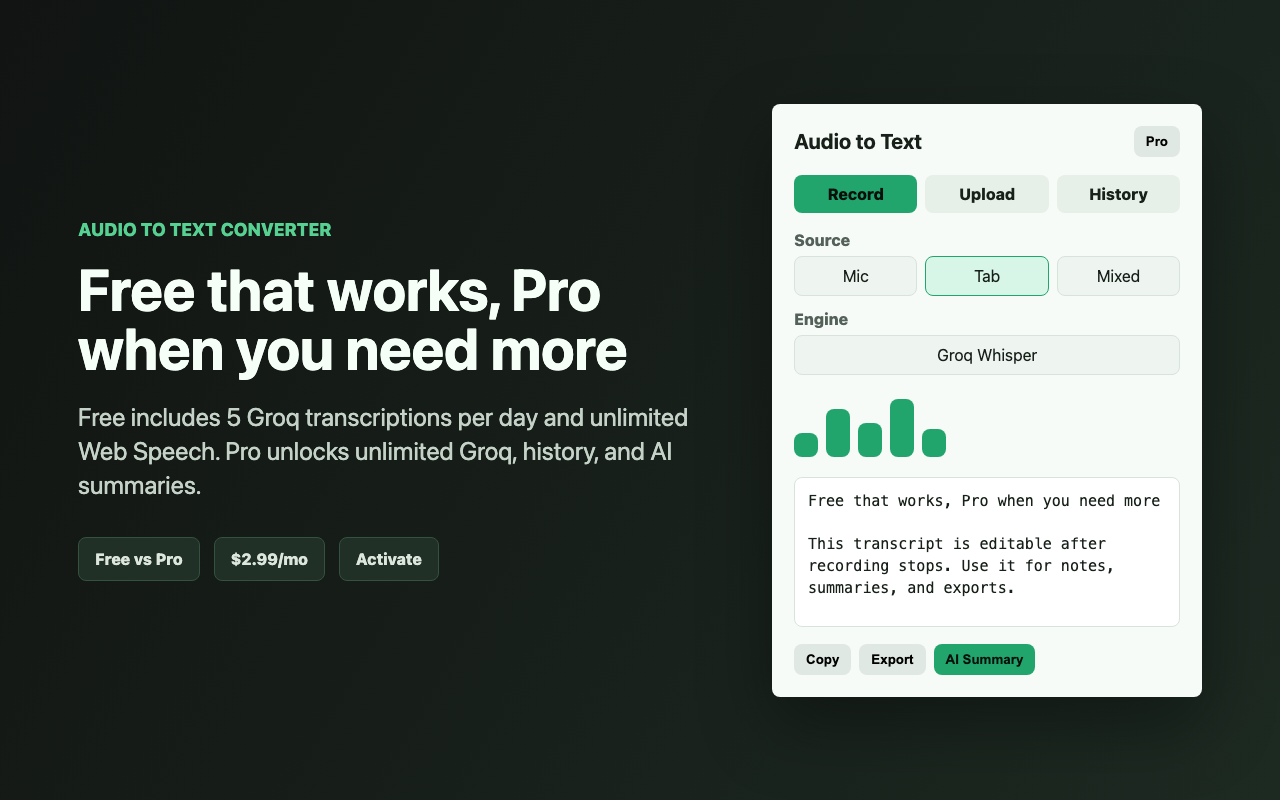
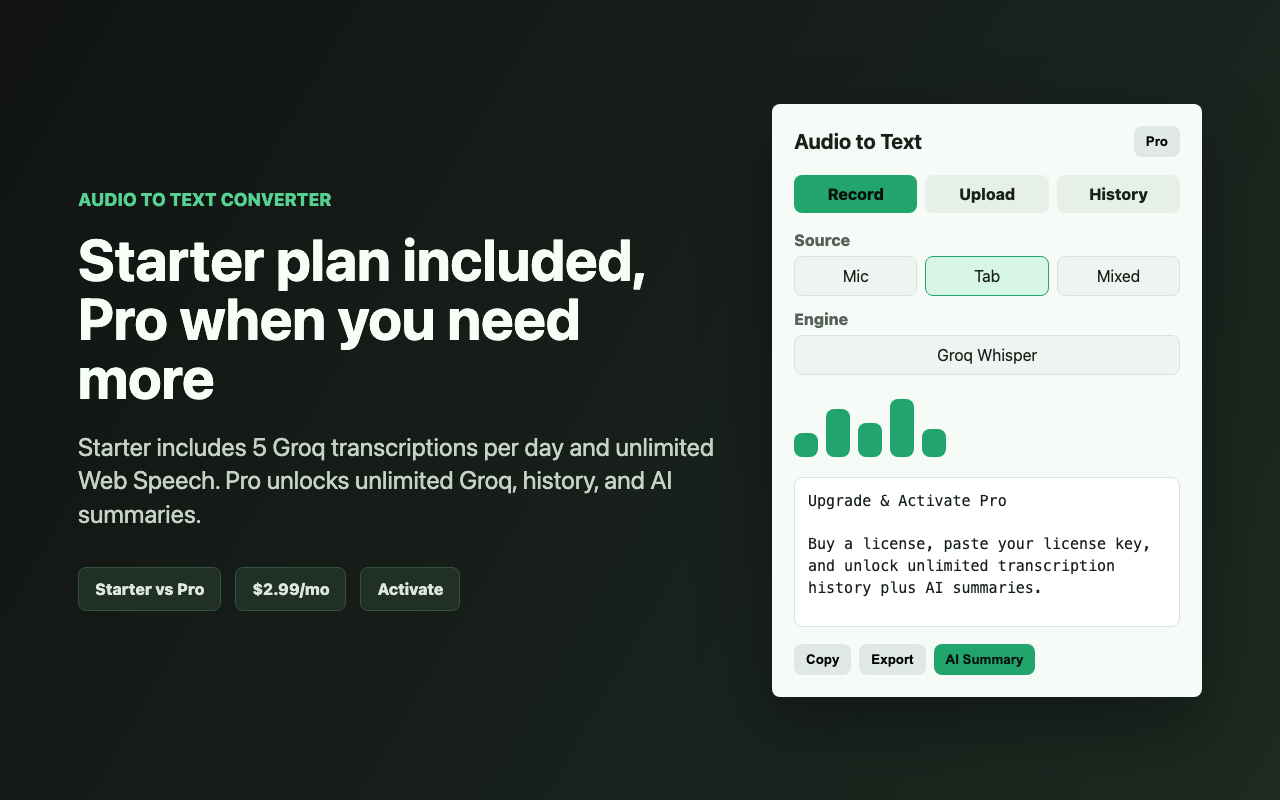
Polish audio to text store assets

diff --git a/audio-to-text/index.html b/audio-to-text/index.html
@@ -142,6 +142,6 @@
       </div>
     </div></section>
   </main>
-  <footer><div class="container">&copy; 2026 ExtPilot. <a href="/audio-to-text/privacy.html">Privacy Policy</a> · <a href="mailto:support@extpilot.com">support@extpilot.com</a></div></footer>
+  <footer id="support"><div class="container">&copy; 2026 ExtPilot. <a href="/audio-to-text/privacy.html">Privacy Policy</a> · <a href="mailto:support@extpilot.com">support@extpilot.com</a></div></footer>
 </body>
 </html>
